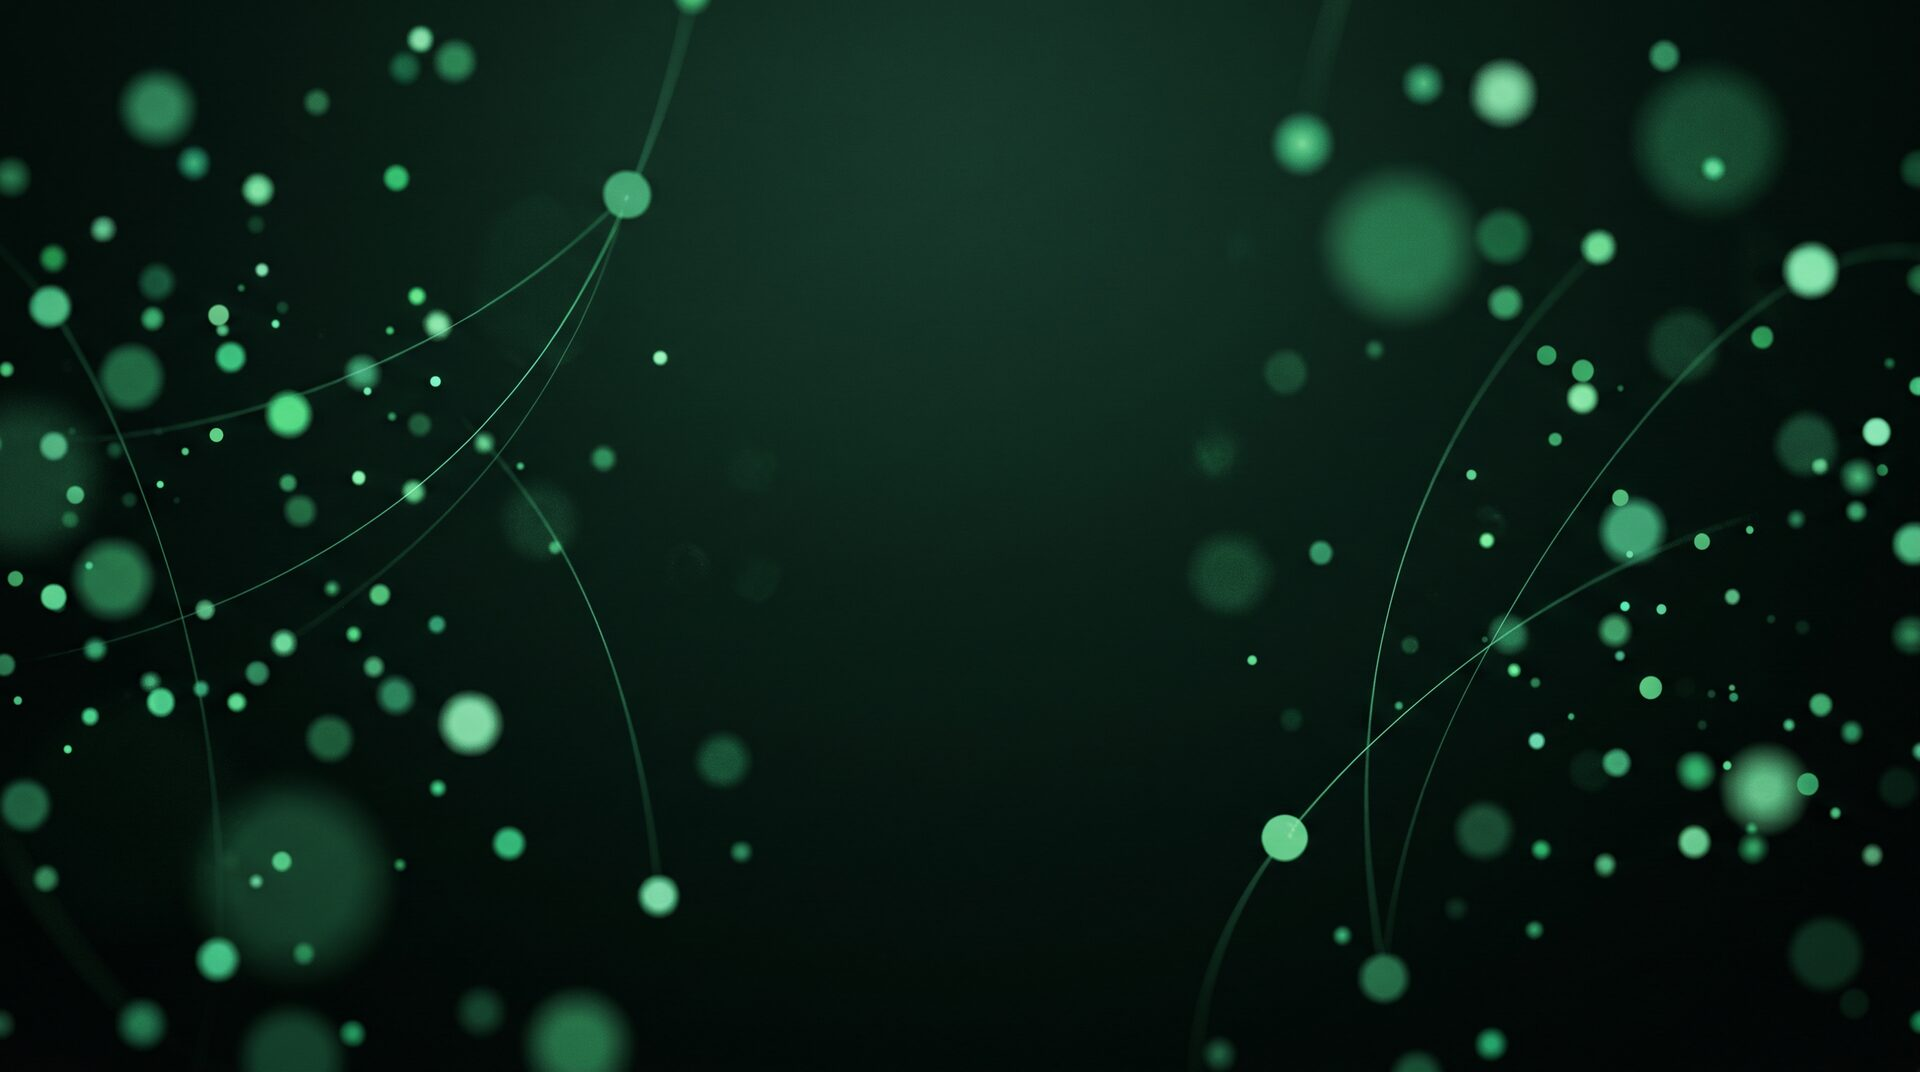
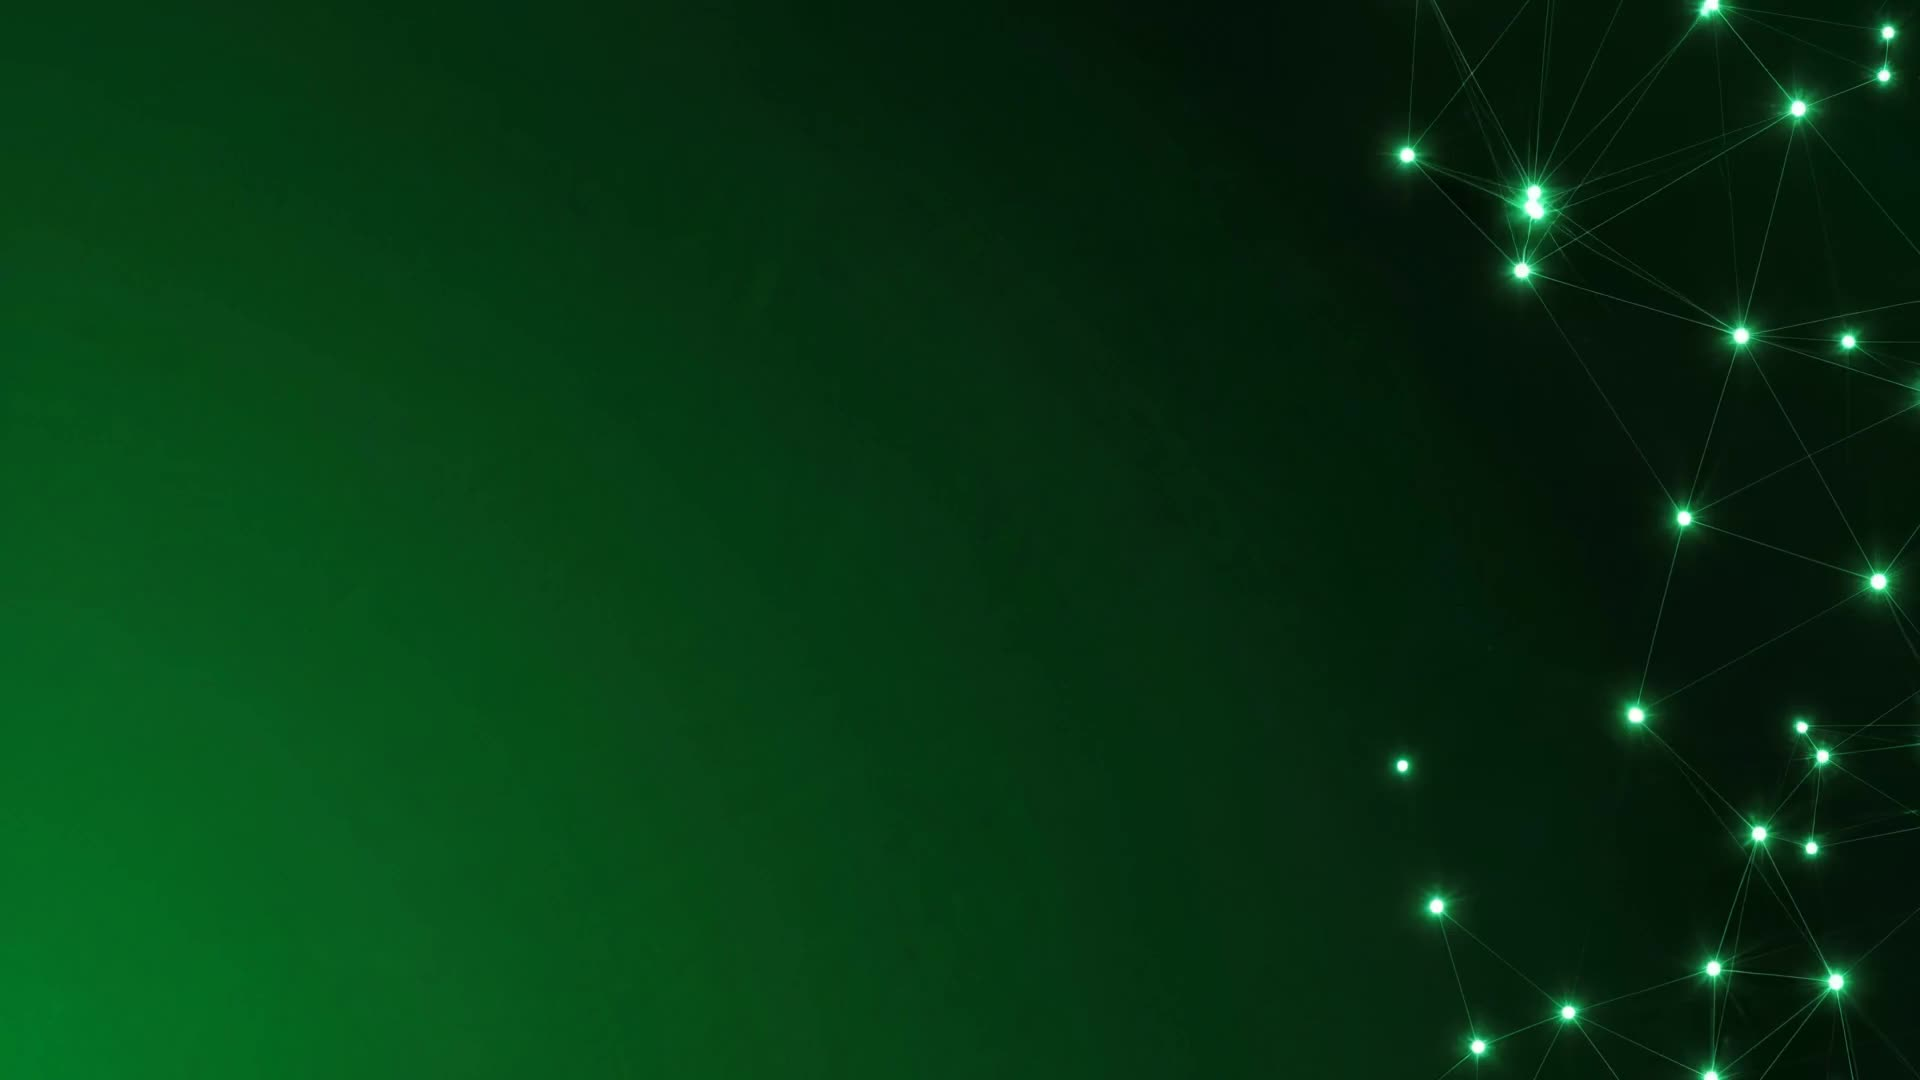
feat: Veo ambient constellation videos for both themes, canvas fallback on mobile and reduced motion

diff --git a/index.html b/index.html
@@ -164,6 +164,22 @@
       opacity: 0.55;
     }
 
+    /* Hero ambient video: one clip per theme on desktop; the canvas takes
+       over on small screens and for prefers-reduced-motion. */
+    .hero-bg-video {
+      position: absolute; inset: 0;
+      width: 100%; height: 100%;
+      object-fit: cover;
+      display: none;
+    }
+    html:not([data-theme="light"]) .hero-video-dark { display: block; }
+    [data-theme="light"] .hero-video-light { display: block; }
+    #neural-canvas { display: none; }
+    @media (max-width: 700px), (prefers-reduced-motion: reduce) {
+      .hero-bg-video { display: none !important; }
+      #neural-canvas { display: block; }
+    }
+
     /* Shell */
     .shell { position: relative; z-index: 1; }
     .wrap { max-width: var(--maxw); margin: 0 auto; padding: 0 40px; }
@@ -1646,6 +1662,14 @@
     <section class="hero-section" aria-labelledby="hero-title">
       <div class="bg">
         <div class="bg-base"></div>
+        <video class="hero-bg-video hero-video-dark" autoplay muted loop playsinline preload="metadata" poster="/public/hero/hero-poster-dark.jpg" aria-hidden="true">
+          <source src="/public/hero/hero-loop-dark.webm" type="video/webm">
+          <source src="/public/hero/hero-loop-dark.mp4" type="video/mp4">
+        </video>
+        <video class="hero-bg-video hero-video-light" autoplay muted loop playsinline preload="metadata" poster="/public/hero/hero-poster-light.jpg" aria-hidden="true">
+          <source src="/public/hero/hero-loop-light.webm" type="video/webm">
+          <source src="/public/hero/hero-loop-light.mp4" type="video/mp4">
+        </video>
         <canvas id="neural-canvas"></canvas>
       </div>
 
@@ -2460,7 +2484,8 @@
         for (const n of nodes) n.lag = 0;
         frame(CYCLE * 0.65);
       } else {
-        const tick = (now) => { frame(now); requestAnimationFrame(tick); };
+        // skip drawing while the canvas is hidden (video active on desktop)
+        const tick = (now) => { if (canvas.offsetParent !== null) frame(now); requestAnimationFrame(tick); };
         requestAnimationFrame(tick);
       }
     }